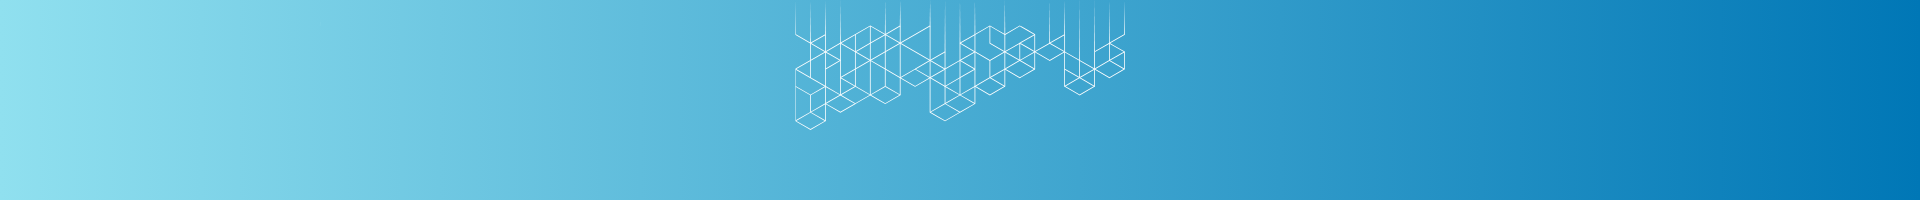
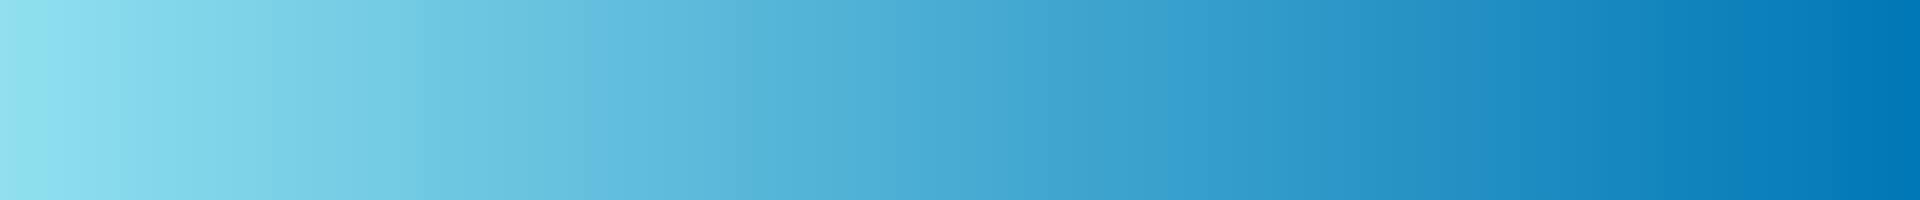
ajustes do visual da tela de home e melhor estruturado os campos

Changed region(s): [[0.4062, 0.12, 0.5938, 0.57], [0.4062, 0.51, 0.4375, 0.6]]

diff --git a/frontend/src/pages/Home.js b/frontend/src/pages/Home.js
@@ -1,49 +1,108 @@
-import React, { Suspense } from 'react';
-import { Link, useNavigate } from 'react-router-dom';
+import React from 'react';
 import './Home.css';
 import Box from '@mui/material/Box';
 import image from '../assets/banner.png';
+import image1 from '../assets/programerPic.png';
 import TextField from '@mui/material/TextField';
-import Background from 'three/src/renderers/common/Background.js';
 import { Typography } from '@mui/material';
 import '@fontsource/roboto/400.css';
 
 function Home() {
 
     return (
-        <Box sx={{
-            display: 'flex',
-            justifyContent: 'center',
-            flexDirection: 'column',
-            alignItems: 'center',
-            position: 'relative'
-        }}>
-            <img src={image} style={{ height: 'auto', width: '100%' }} />
-            <Typography variant="h3" gutterBottom
-                sx={{
-                    position: 'absolute',
-                    right: '5%',
-                    fontWeight: 'bold'
-                }}>
-                O PORTAL DE VAGAS MAIS AMADO DO BRASIL!
-            </Typography>
 
-
-            <Box sx={{
+        <Box // TUDO MENOS DIV BANNER
+            sx={{
                 display: 'flex',
+                justifyContent: 'center',
+                flexDirection: 'column',
+                alignItems: 'center',
+                position: 'absolute',
+                zIndex: 0,
+                width: '100%',
+            }}>
+
+            <Box // DIV QUE CONTEM BANNER, FOTO E TEXTO
+                sx={{
+                    position: 'relative',
+                    width: '100%',
+                    height: '200px',
+                    backgroundColor:'red'
+                }}
+            >
+                <img src={image} alt="Banner" style={{
+                    width: '100%',
+                    height: '100%',
+                    objectFit: 'cover'
+                }} />
+
+                <Box // DIV QUE CONTEM FOTO E TEXTO
+                    sx={{
+                        width: '100%',
+                        height: '100%',
+                        position: 'absolute',
+                        top: 0,
+                        left: 0,
+                        display: 'flex',
+                        justifyContent: 'center',
+                        alignItems: 'center',
+                        
+                    }}
+                >
+                    <Box sx={{ // Container da imagem e texto
+                        position: 'relative',
+                        display: 'flex',
+                        alignItems: 'center',
+                        justifyContent: 'center',
+                        width: '70%',
+                        
+                    }}>
+                        <img src={image1} alt="Programador" style={{
+                            height: '200px',
+                            width: '200px',
+                            marginRight: '40px',
+                        }} />
+                        <Typography
+                            variant="h3"
+                            sx={{
+                                fontWeight: 'bold',
+                                color: 'black',
+                                fontSize: '35px',
+                                fontFamily: 'Special Gothic Expanded One',
+                                textAlign: 'center'
+                            }}
+                        >
+                            AS MELHORES VAGAS ESTÃO AQUI!
+                        </Typography>
+                    </Box>
+                </Box>
+            </Box>
+
+            <Box sx={{ // DIV BARRA COM FILTROS
                 background: 'white',
                 width: '50%',
-                padding: '20px',
-                position: 'absolute',
-                top: '100%',
-                transform: 'translateY(-50%)',
                 borderRadius: '20px',
-                boxShadow: '0px 11px 19px -3px rgba(0,0,0,0.1)'
+                position: 'absolute',
+                boxShadow: '0px 11px 19px -3px rgba(0,0,0,0.1)',
+                display: 'flex',
+                justifyContent: 'center',
+                padding: '20px',
+                top:'78%'
             }}>
-                <TextField id="outlined-basic" label="Vaga" variant="outlined" />
+                <Box sx={{
+                    display: 'flex',
+                    justifyContent: 'center',
+                    flexDirection: 'row',
+                    gap: '10px',
+                    flexWrap: 'wrap',
+                }}>
+                    <TextField label="Vaga" variant="outlined" />
+                    <TextField label="Vaga" variant="outlined" />
+                    <TextField label="Vaga" variant="outlined" />
+                    <TextField label="Vaga" variant="outlined" />
+                </Box>
             </Box>
         </Box>
-
     )
 }
 export default Home;

diff --git a/frontend/public/index.html b/frontend/public/index.html
@@ -1,21 +1,19 @@
 <!DOCTYPE html>
 <html lang="en">
-  <head>
-    <meta charset="utf-8" />
-    <link rel="icon" href="%PUBLIC_URL%/favicon.ico" />
-    <meta name="viewport" content="width=device-width, initial-scale=1" />
-    <meta name="theme-color" content="#000000" />
-    <meta
-      name="description"
-      content="Web site created using create-react-app"
-    />
-    <link rel="apple-touch-icon" href="%PUBLIC_URL%/logo192.png" />
-    <!--
+
+<head>
+  <meta charset="utf-8" />
+  <link rel="icon" href="%PUBLIC_URL%/favicon.ico" />
+  <meta name="viewport" content="width=device-width, initial-scale=1" />
+  <meta name="theme-color" content="#000000" />
+  <meta name="description" content="Web site created using create-react-app" />
+  <link rel="apple-touch-icon" href="%PUBLIC_URL%/logo192.png" />
+  <!--
       manifest.json provides metadata used when your web app is installed on a
       user's mobile device or desktop. See https://developers.google.com/web/fundamentals/web-app-manifest/
     -->
-    <link rel="manifest" href="%PUBLIC_URL%/manifest.json" />
-    <!--
+  <link rel="manifest" href="%PUBLIC_URL%/manifest.json" />
+  <!--
       Notice the use of %PUBLIC_URL% in the tags above.
       It will be replaced with the URL of the `public` folder during the build.
       Only files inside the `public` folder can be referenced from the HTML.
@@ -24,12 +22,19 @@
       work correctly both with client-side routing and a non-root public URL.
       Learn how to configure a non-root public URL by running `npm run build`.
     -->
-    <title>React App</title>
-  </head>
-  <body>
-    <noscript>You need to enable JavaScript to run this app.</noscript>
-    <div id="root"></div>
-    <!--
+  <title>React App</title>
+
+  <link rel="preconnect" href="https://fonts.googleapis.com">
+  <link rel="preconnect" href="https://fonts.gstatic.com" crossorigin>
+  <link href="https://fonts.googleapis.com/css2?family=Special+Gothic+Expanded+One&display=swap" rel="stylesheet">
+
+
+</head>
+
+<body>
+  <noscript>You need to enable JavaScript to run this app.</noscript>
+  <div id="root"></div>
+  <!--
       This HTML file is a template.
       If you open it directly in the browser, you will see an empty page.
 
@@ -39,5 +44,6 @@
       To begin the development, run `npm start` or `yarn start`.
       To create a production bundle, use `npm run build` or `yarn build`.
     -->
-  </body>
+</body>
+
 </html>

diff --git a/frontend/src/components/Header.js b/frontend/src/components/Header.js
@@ -11,9 +11,7 @@ import Avatar from '@mui/material/Avatar';
 import Button from '@mui/material/Button';
 import Tooltip from '@mui/material/Tooltip';
 import MenuItem from '@mui/material/MenuItem';
-import AdbIcon from '@mui/icons-material/Adb';
 import { Link, useNavigate } from 'react-router-dom';
-import { BorderColor } from '@mui/icons-material';
 
 const pages = [
     {

diff --git a/frontend/src/App.css b/frontend/src/App.css
@@ -13,6 +13,8 @@
   }
 }
 
+@import url('https://fonts.googleapis.com/css2?family=Special+Gothic+Expanded+One&display=swap');
+
 .App-header {
 
   min-height: 100vh;

diff --git a/frontend/src/pages/Home.css b/frontend/src/pages/Home.css
@@ -9,7 +9,6 @@ body,
     height: 100%;
 }
 
-
 .bg,
 canvas {
     width: 100% !important;
